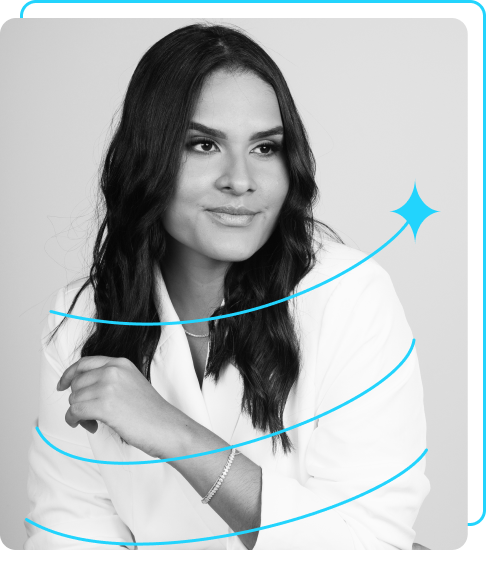
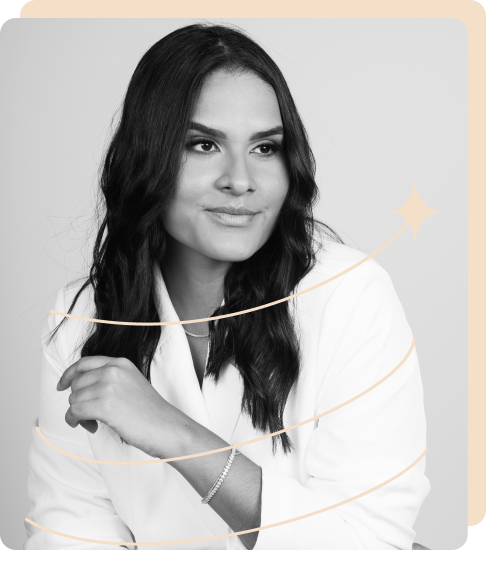
Adiciona responsividade e mockup de apresentação para o README
Esta atualização melhora a visualização em dispositivos móveis e inclui um mockup para melhor entendimento.

diff --git a/styles/style.css b/styles/style.css
@@ -2,12 +2,12 @@
 
 :root {
     --cor-primaria: #000000;
-    --cor-secundaria: #f6f6f6;
-    --cor-terciaria: #22D4FD;
-    --cor-hover: #272727;
+    --cor-secundaria: #FAF6F0;
+    --cor-terciaria: #F4DFC8;
+    --cor-hover: #F4DFC8;
 
     --fonte-primaria: 'Krona One', sans-serif;
-    --fonte-secundaria: 'Montserrat' , sans-serif;
+    --fonte-secundaria: 'Montserrat', sans-serif;
 }
 
 * {
@@ -32,10 +32,18 @@ body {
 
 .cabecalho__menu__link {
     font-family: var(--fonte-secundaria);
-    font-size: 24px;
+    font-size: 1.5rem;
     font-weight: 600;
     color: var(--cor-terciaria);
     text-decoration: none;
+    position: relative; 
+    transition: color 0.3s, transform 0.3s, box-shadow 0.3s; 
+}
+
+.cabecalho__menu__link:hover {
+    color: var(--cor-secundaria);
+    transform: translateY(-3px); 
+    text-shadow: 0 4px 10px rgba(244, 223, 200, 0.3); 
 }
 
 .apresentacao {
@@ -43,17 +51,18 @@ body {
     display: flex;
     align-items: center;
     justify-content: space-between;
+    gap: 82px;
 }
 
 .apresentacao__conteudo {
-    width: 615px;
+    width: 50%;
     display: flex;
     flex-direction: column;
     gap: 40px;
 }
 
 .apresentacao__conteudo__titulo {
-    font-size: 36px;
+    font-size: 2.25rem;
     font-family: var(--fonte-primaria);
 }
 
@@ -62,11 +71,11 @@ body {
 }
 
 .apresentacao__conteudo__texto {
-    font-size: 24px;
+    font-size: 1.5rem;
     font-family: var(--fonte-secundaria);
 }
 
-.apresentacao__links{
+.apresentacao__links {
     display: flex;
     flex-direction: column;
     justify-content: space-between;
@@ -77,36 +86,49 @@ body {
 .apresentacao__links__subtitulo {
     font-family: var(--fonte-primaria);
     font-weight: 400;
-    font-size: 24px;
+    font-size: 1.5rem;
 }
 
-.apresentacao_links_link {
-    display: flex;
-    justify-content: center;
-    gap: 16px;
+.apresentacao_links_navegacao {
+    display: flex; 
+    justify-content: center; 
+    gap: 16px; 
     border: 2px solid var(--cor-terciaria);
-    width: 378px;
+    width: 50%;
     text-align: center;
     border-radius: 8px;
-    font-size: 24px;
+    font-size: 1.5rem;
     padding: 21.5px 0;
     text-decoration: none;
-    color: var(--cor-secundaria);
+    color: var(--cor-secundaria); 
     font-family: var(--fonte-secundaria);
     font-weight: 600;
-    transition: transform 0.3s;
+    transition: transform 0.3s; 
     box-shadow: 2px 2px 5px rgba(0, 0, 0, 0.3);
     position: relative;
     transition: top 0.3s;
-    transition: transform 0.3s;
 }
 
-.apresentacao_links_link:hover {
+.apresentacao_links_navegacao:hover {
     background-color: var(--cor-hover);
-    transform: scale(1.1);
+    transform: scale(1.1) rotate(5deg); 
     box-shadow: 4px 4px 10px rgba(0, 0, 0, 0.5);
     top: -5px;
-    transform: rotate(5deg);
+    color: #000000; 
+}
+
+.apresentacao_links_navegacao:hover .meu-icone {
+    filter: grayscale(100%) brightness(0); 
+    transition: filter 0.3s;
+}
+
+.meu-icone {
+    filter: hue-rotate(50deg) brightness(3.2) contrast(0.9); 
+    transition: filter 0.3s;
+}
+
+.apresentacao__imagem {
+    width: 50%;
 }
 
 .rodape {
@@ -114,8 +136,83 @@ body {
     background-color: var(--cor-terciaria);
     padding: 24px;
     text-align: center;
-    font-family: 'Montserrat' , sans-serif;
-    font-size: 24px;
+    font-family: var(--fonte-secundaria);
+    font-size: 1.5rem;
     font-weight: 400;
+}
 
+.project-container {
+    display: flex;
+    justify-content: space-around; 
+    flex-wrap: wrap; 
+    margin: 20px; 
+}
+
+.project-card {
+    background-color: var(--cor-secundaria);
+    border-radius: 8px;
+    box-shadow: 0 2px 10px rgba(0, 0, 0, 0.1);
+    margin: 10px; 
+    padding: 20px;
+    text-align: center;
+    flex: 1 1 30%; 
+    max-width: 300px; 
+    transition: transform 0.2s;
+}
+
+.project-card:hover {
+    transform: translateY(-5px);
+}
+
+.project-card img {
+    max-width: 100%; 
+    height: auto; 
+    border-radius: 8px;
+}
+
+.project-card h2 {
+    color: var(--cor-primaria);
+    margin: 10px 0;
+    font-family: var(--fonte-primaria);
+}
+
+.project-card p {
+    color: var(--cor-primaria);
+    font-size: 0.875rem;
+    font-family: var(--fonte-secundaria);
+}
+
+.button-container {
+    margin-top: 20px;
+    text-align: center;
+}
+
+.button {
+    display: inline-block;
+    margin: 10px;
+    padding: 10px 20px;
+    background-color: var(--cor-terciaria);
+    color: var(--cor-primaria);
+    text-decoration: none;
+    border-radius: 5px;
+    transition: background-color 0.3s;
+}
+
+@media (max-width: 1200px) {
+    .cabecalho {
+        padding: 10%;
+    }
+
+    .cabecalho__menu {
+        justify-content: center;
+    }
+
+    .apresentacao {
+        flex-direction: column-reverse;
+        padding: 5%;
+    }
+
+    .apresentacao__conteudo {
+        width: auto;
+    }
 }

diff --git a/about.html b/about.html
@@ -11,16 +11,20 @@
         <nav class="cabecalho__menu">
             <a class="cabecalho__menu__link" href="index.html">Home</a>
             <a class="cabecalho__menu__link" href="about.html">Sobre mim</a>
+            <a class="cabecalho__menu__link" href="projetos.html">Projetos</a>
         </nav>
     </header>
 
     <main class="apresentacao">
         <section class="apresentacao__conteudo">
             <h1 class="apresentacao__conteudo__titulo">Sobre mim</h1>
-            <p class="apresentacao__conteudo__texto">At vero eos et accusamus et iusto odio dignissimos ducimus qui blanditiis praesentium voluptatum deleniti atque corrupti quos dolores et quas molestias excepturi sint occaecati cupiditate non provident, similique sunt in culpa qui officia deserunt mollitia animi, id est laborum et dolorum fuga.</p>
-            <p class="apresentacao__conteudo__texto">Et harum quidem rerum facilis est et expedita distinctio. Nam libero tempore, cum soluta nobis est eligendi optio cumque nihil impedit quo minus id quod maxime placeat facere possimus, omnis voluptas assumenda est, omnis dolor repellendus. Temporibus autem quibusdam et aut officiis debitis aut rerum necessitatibus saepe eveniet ut et voluptates repudiandae sint et molestiae non recusandae. Itaque earum rerum hic tenetur a sapiente delectus, ut aut reiciendis voluptatibus maiores alias consequatur aut perferendis doloribus asperiores ipsum delis forum birol parela maxime infena. Excepteur sint occaecat cupidatat non.</p>
+            <p class="apresentacao__conteudo__texto">Oi! Sou <strong class="titulo-destaque">Thalita Noemi</strong>, uma desenvolvedora de software apaixonada por transformar ideias criativas em soluções práticas e impactantes. Minha jornada na programação começou em 2023 e, desde então, tenho me dedicado a aprimorar minhas habilidades e buscar novos desafios.</p>
+            <p class="apresentacao__conteudo__texto">Atualmente, estou me formando em <strong class="titulo-destaque">Análise e Desenvolvimento de Sistemas</strong> e complementando minha formação com cursos e projetos práticos, inclusive desenvolvendo soluções para clientes. Essa experiência tem sido fundamental para consolidar meu conhecimento em desenvolvimento web e me preparar para o mercado.</p>
+            <p class="apresentacao__conteudo__texto">Possuo habilidades em HTML, CSS e JavaScript, além de estar explorando frameworks que possibilitam a criação de interfaces web dinâmicas. Estou sempre em busca de novas tecnologias que possam enriquecer meu trabalho e expandir meu repertório.</p>
+            <p class="apresentacao__conteudo__texto">Minha paixão pela estética se reflete na minha habilidade de entender e reproduzir tendências de beleza no design. Acredito que a estética não é apenas uma questão de aparência, mas sim uma forma de proporcionar experiências agradáveis e envolventes para os usuários. Busco sempre criar soluções que sejam não apenas funcionais, mas também alinhadas com o que há de mais bonito e atual no mundo do design.</p>
+            <p class="apresentacao__conteudo__texto">Estou animada e aberta a novas oportunidades de estágio e colaborações. Se você estiver interessado em discutir como posso contribuir para o seu projeto ou equipe, adoraria conversar. Vamos criar algo incrível juntos!</p>
         </section>
-        <img src="./assets/Imagem.png" alt="Foto de Thalita Noemi olhando para o lado">
+        <img class="apresentacao__imagem" src="./assets/Imagem.png" alt="Foto de Thalita Noemi olhando para o lado">
     </main>
 
     <footer class="rodape">Desenvolvido por Thalita Noemi.</footer>

diff --git a/projetos.html b/projetos.html
@@ -1,0 +1,59 @@
+<!DOCTYPE html>
+<html lang="pt-br">
+<head>
+    <meta charset="UTF-8">
+    <meta name="viewport" content="width=device-width, initial-scale=1.0">
+    <title>Projetos</title>
+    <link rel="stylesheet" href="./styles/style.css">
+</head>
+<body>
+    <header class="cabecalho">
+        <nav class="cabecalho__menu">
+            <a class="cabecalho__menu__link" href="index.html">Home</a>
+            <a class="cabecalho__menu__link" href="about.html">Sobre mim</a>
+            <a class="cabecalho__menu__link" href="projetos.html">Projetos</a>
+        </nav>
+    </header>
+
+    <main class="apresentacao">
+        <section class="apresentacao__conteudo">
+            <h1 class="apresentacao__conteudo__titulo">Projetos</h1>
+
+            <!-- Adicione o contêiner para os cartões de projeto -->
+            <div class="project-container">
+                <div class="project-card">
+                    <img src="./assets/projeto1.jpg" alt="Projeto 1">
+                    <h2>Projeto 1</h2>
+                    <p>Login responsivo foi meu primeiro projeto</p>
+                    <div class="button-container">
+                        <a href="https://github.com/thalitanoemii/login-resposivo" class="button">GitHub</a>
+                        <a href="https://login-resposivo.vercel.app/" class="button">Deploy</a>
+                    </div>
+                </div>
+                <div class="project-card">
+                    <img src="./assets/projeto2.jpg" alt="Projeto 2">
+                    <h2>Projeto 2</h2>
+                    <p>BioCliente foi meu segundo projeto de estudo e meu primeiro usado por um cliente real</p>
+                    <div class="button-container">
+                        <a href="https://github.com/thalitanoemii/bio-cliente/blob/main/README.md" class="button">GitHub</a>
+                        <a href="https://drjorgemendes.com.br/bio/?fbclid=PAZXh0bgNhZW0CMTEAAaZvWB7J2xxylYsTDhyCsbgulxaiVwuqKRl6jgK_iFTOdIDQ6rZqNdbMzOY_aem_IjdkLMfjTz4pQLN07FLaXw" class="button">Deploy</a>
+                    </div>
+                </div>
+                <div class="project-card">
+                    <img src="./assets/projeto3.jpg" alt="Projeto 3">
+                    <h2>Projeto 3</h2>
+                    <p>Carrinho de compras foi um dos meus últimos projetos de estudo</p>
+                    <div class="button-container">
+                        <a href="https://github.com/thalitanoemii/carrinho-de-compras" class="button">GitHub</a>
+                        <a href="https://seu-deploy-url3.com" class="button">Deploy</a>
+                    </div>
+                </div>
+            </div> <!-- Fim do contêiner de projetos -->
+
+        </section>
+        <img  class="apresentacao__imagem"  src="./assets/Imagem.png" alt="Foto de Thalita Noemi olhando para o lado">
+    </main>
+
+    <footer class="rodape">Desenvolvido por Thalita Noemi.</footer>
+</body>
+</html>

diff --git a/index.html b/index.html
@@ -11,6 +11,7 @@
         <nav class="cabecalho__menu">
             <a class="cabecalho__menu__link" href="index.html">Home</a>
             <a class="cabecalho__menu__link" href="about.html">Sobre mim</a>
+            <a class="cabecalho__menu__link" href="projetos.html">Projetos</a>
         </nav>
     </header>
     <main class="apresentacao">
@@ -19,21 +20,21 @@
             <p class="apresentacao__conteudo__texto">Olá! Sou Thalita Noemi, desenvolvedora Front-end com especialidade em React, HTML e CSS. Ajudo pequenos negócios e designers a colocarem em prática boas ideias. Vamos conversar?</p>
             <div class="apresentacao__links">
                 <h2 class="apresentacao__links__subtitulo">Acesse minhas redes:</h2>
-                <a class="apresentacao_links_link" href="https://www.linkedin.com/in/thalita-noemi/">
-                    <img src="./assets/linkedin.png" alt="icone do linkedin">
+                <a class="apresentacao_links_navegacao" href="https://www.linkedin.com/in/thalita-noemi/">
+                    <img class="meu-icone" src="./assets/linkedin.png" alt="icone do linkedin">
                     Linkedin
                 </a>
-                <a class="apresentacao_links_link" href="https://github.com/thalitanoemii">
-                    <img src="./assets/github.png" alt="icone do github">
+                <a class="apresentacao_links_navegacao" href="https://github.com/thalitanoemii">
+                    <img class="meu-icone" src="./assets/github.png" alt="icone do github">
                     Github
                 </a>
-                <a class="apresentacao_links_link" href="https://www.instagram.com/adstudying">
-                    <img src="./assets/instagram.png" alt="icone do instagram">
+                <a class="apresentacao_links_navegacao" href="https://www.instagram.com/adstudying">
+                    <img class="meu-icone" src="./assets/instagram.png" alt="icone do instagram">
                     Instagram
                 </a>
             </div>
         </section>
-        <img src="./assets/Imagem.png" alt="Foto de Thalita Noemi olhando para o lado">
+        <img class="apresentacao__imagem" src="./assets/Imagem.png" alt="Foto de Thalita Noemi olhando para o lado">
     </main>
     <footer class="rodape">Desenvolvido por Thalita Noemi.</footer>
 </body>
